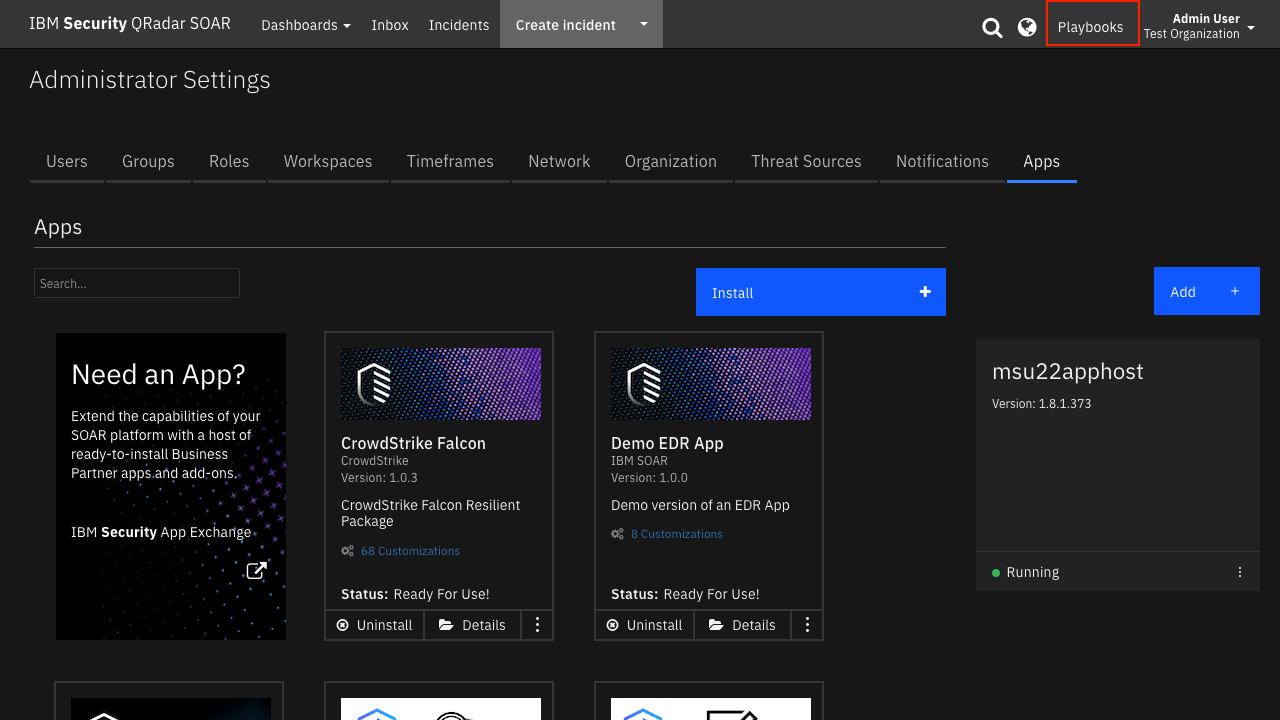
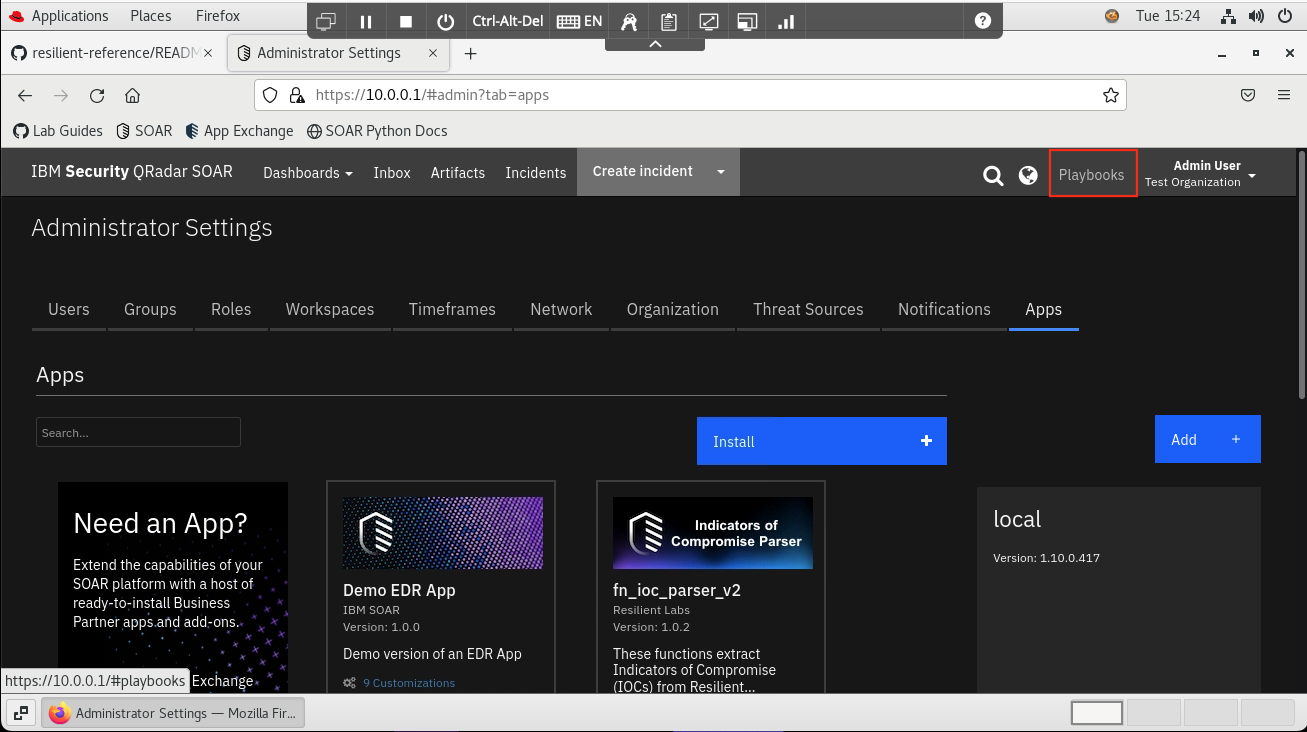
MSU 2022

diff --git a/MSU2022/Lab Guides/Part II: Advanced Development of Playbooks/README.md b/MSU2022/Lab Guides/Part II: Advanced Development of Playbooks/README.md
@@ -60,7 +60,7 @@
   * `fn_ldap_utilities`
   * `Demo EDR App`
 
-<!-- TODO: add screenshot of this -->
+  ![screenshot](./screenshots/69.png)
 
 ---
 
